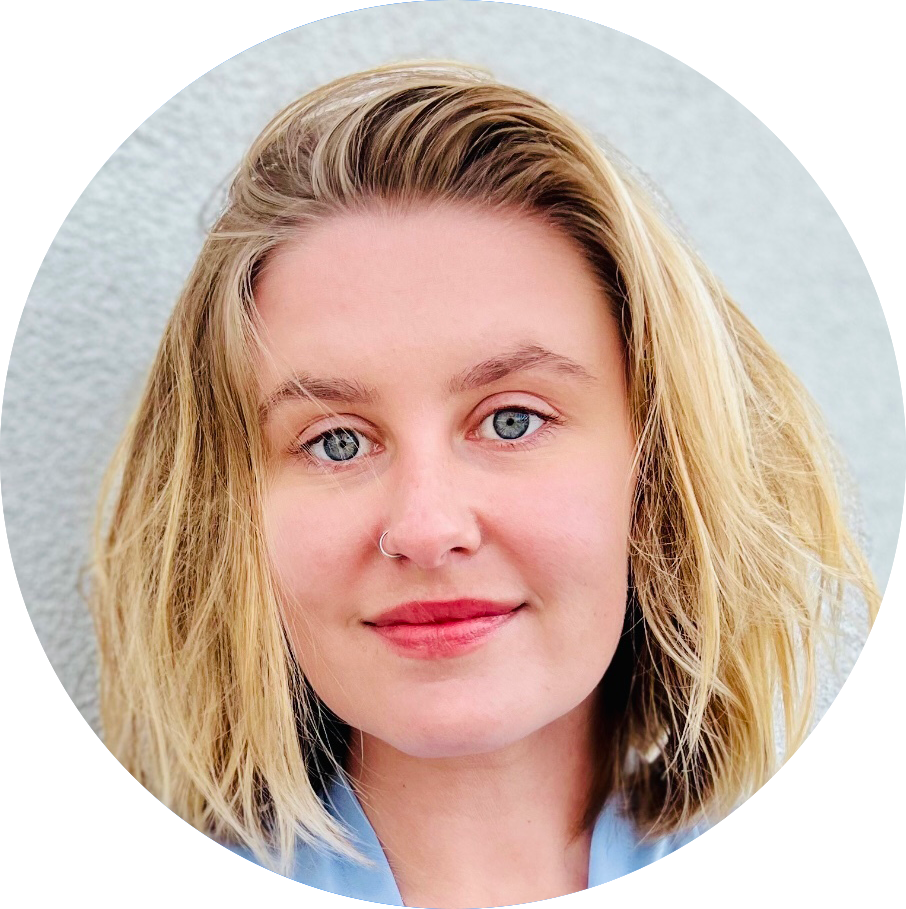
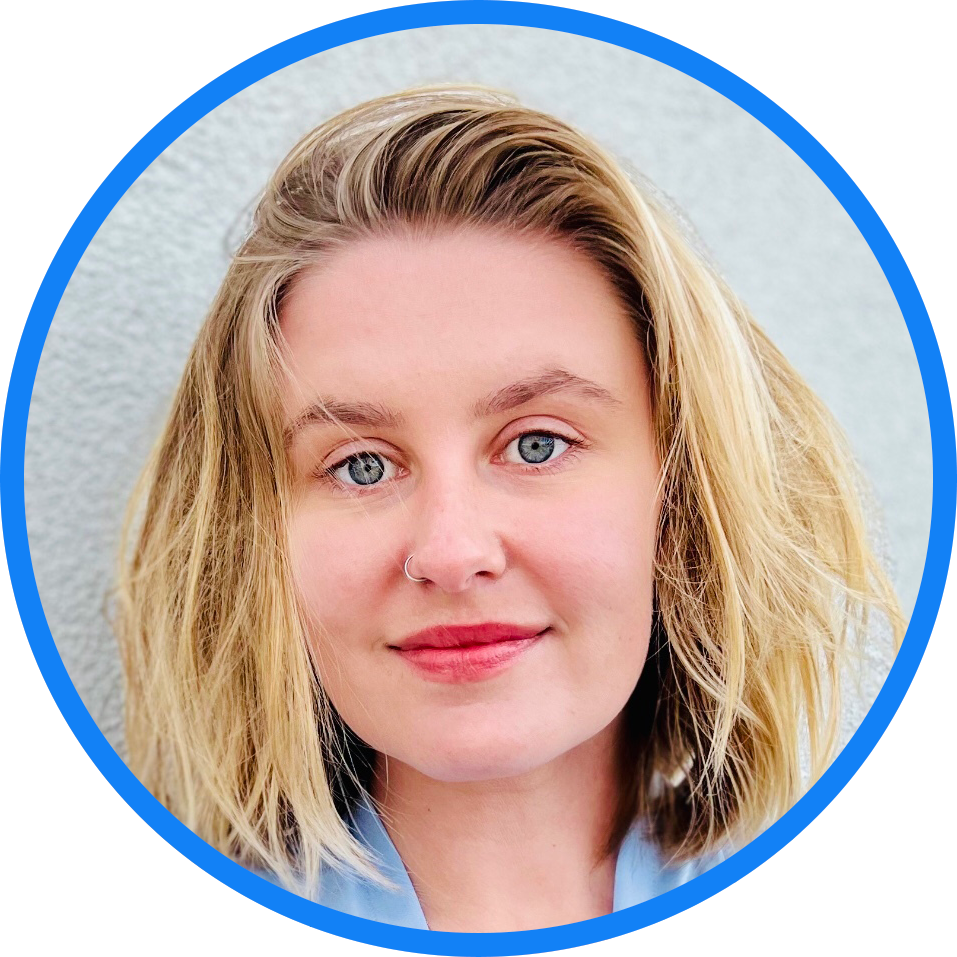
Revert "fixed some responsiveness"

diff --git a/src/pages/ContactPage/ContactPage.jsx b/src/pages/ContactPage/ContactPage.jsx
@@ -13,7 +13,6 @@ const ContactPage = ({ user, setUser }) => {
           <div id='manager-div'>
             <div>
               <img 
-                class='contact-img'
                 src={require('../../utils/images/Yev.png')} 
                 style={{height: '100px'}}>
               </img>
@@ -25,7 +24,6 @@ const ContactPage = ({ user, setUser }) => {
             </div>
             <div>
               <img 
-                class='contact-img'
                 src={require('../../utils/images/sarah.png')} 
                 style={{height: '100px'}}>
               </img>
@@ -42,7 +40,6 @@ const ContactPage = ({ user, setUser }) => {
           <div id='design-div'>
             <div>
               <img 
-                class='contact-img'
                 src={require('../../utils/images/mahita.png')} 
                 style={{height: '100px'}}>
               </img>
@@ -54,7 +51,6 @@ const ContactPage = ({ user, setUser }) => {
             </div>
             <div>
               <img 
-                class='contact-img'
                 src={require('../../utils/images/david.png')} 
                 style={{height: '100px'}}>
               </img>
@@ -66,7 +62,6 @@ const ContactPage = ({ user, setUser }) => {
             </div>
             <div>
               <img 
-                class='contact-img'
                 src={require('../../utils/images/jinah.png')} 
                 style={{height: '100px'}}>
               </img>
@@ -78,7 +73,6 @@ const ContactPage = ({ user, setUser }) => {
             </div>
             <div>
               <img 
-                class='contact-img'
                 src={require('../../utils/images/dona.png')} 
                 style={{height: '100px'}}>
               </img>
@@ -92,7 +86,6 @@ const ContactPage = ({ user, setUser }) => {
             </div>
             <div>
               <img 
-                class='contact-img'
                 src={require('../../utils/images/kay.png')} 
                 style={{height: '100px'}}>
               </img>
@@ -104,7 +97,6 @@ const ContactPage = ({ user, setUser }) => {
             </div>
             <div>
               <img 
-                class='contact-img'
                 src={require('../../utils/images/may.png')} 
                 style={{height: '100px'}}>
               </img>
@@ -116,7 +108,6 @@ const ContactPage = ({ user, setUser }) => {
             </div>
             <div>
               <img 
-                class='contact-img'
                 src={require('../../utils/images/megan.png')} 
                 style={{height: '100px'}}>
                 </img>
@@ -128,7 +119,6 @@ const ContactPage = ({ user, setUser }) => {
             </div>        
             <div>
               <img 
-                class='contact-img'
                 src={require('../../utils/images/luisa.png')} 
                 style={{height: '100px'}}>
               </img>
@@ -140,7 +130,6 @@ const ContactPage = ({ user, setUser }) => {
             </div>
             <div className="farnoosh" >
               <img 
-                class='contact-img'
                 src={require('../../utils/images/farnoosh.png')} 
                 style={{height: '100px'}}>
               </img>
@@ -157,7 +146,6 @@ const ContactPage = ({ user, setUser }) => {
           <div id='engineer-div'>
             <div>
               <img 
-                class='contact-img'
                 src={require('../../utils/images/nisha.png')} 
                 style={{height: '100px'}}>
               </img>
@@ -169,7 +157,6 @@ const ContactPage = ({ user, setUser }) => {
             </div>
             <div>
               <img 
-                class='contact-img'
                 src={require('../../utils/images/roman.png')} 
                 style={{height: '100px'}}>
               </img>
@@ -181,7 +168,6 @@ const ContactPage = ({ user, setUser }) => {
             </div>
             <div>
               <img 
-                class='contact-img'
                 src={require('../../utils/images/michael.png')} 
                 style={{height: '100px'}}>
               </img>
@@ -193,7 +179,6 @@ const ContactPage = ({ user, setUser }) => {
             </div>
             <div> 
               <img 
-                class='contact-img'
                 src={require('../../utils/images/yi.png')} 
                 style={{height: '100px'}}>
               </img>
@@ -205,7 +190,6 @@ const ContactPage = ({ user, setUser }) => {
             </div>
             <div>
               <img 
-                class='contact-img'
                 src={require('../../utils/images/trevor.png')} 
                 style={{height: '100px'}}>
               </img>
@@ -217,7 +201,6 @@ const ContactPage = ({ user, setUser }) => {
             </div>
             <div> 
               <img 
-                class='contact-img'
                 src={require('../../utils/images/james.png')} 
                 style={{height: '100px'}}>
               </img>
@@ -229,7 +212,6 @@ const ContactPage = ({ user, setUser }) => {
             </div>
             <div> 
               <img 
-                class='contact-img'
                 src={require('../../utils/images/kris.png')} 
                 style={{height: '100px'}}>
               </img>
@@ -241,7 +223,6 @@ const ContactPage = ({ user, setUser }) => {
             </div>
             <div> 
               <img 
-                class='contact-img'
                 src={require('../../utils/images/maika.png')} 
                 style={{height: '100px'}}>
               </img>
@@ -258,7 +239,6 @@ const ContactPage = ({ user, setUser }) => {
           <div id='data-div'>
             <div>
               <img 
-                class='contact-img'
                 src={require('../../utils/images/joshua.png')} 
                 style={{height: '100px'}}>
               </img>
@@ -270,7 +250,6 @@ const ContactPage = ({ user, setUser }) => {
             </div>
             <div>
               <img 
-                class='contact-img'
                 src={require('../../utils/images/pic3.png')} 
                 style={{height: '100px'}}>
               </img>
@@ -282,7 +261,6 @@ const ContactPage = ({ user, setUser }) => {
             </div>
             <div>
               <img 
-                class='contact-img'
                 src={require('../../utils/images/pic4.png')} 
                 style={{height: '100px'}}>
               </img>
@@ -294,7 +272,6 @@ const ContactPage = ({ user, setUser }) => {
             </div>
             <div>
               <img 
-                class='contact-img'
                 src={require('../../utils/images/morgan.png')} 
                 style={{height: '100px'}}>
               </img>

diff --git a/src/pages/ContactPage/ContactPage.css b/src/pages/ContactPage/ContactPage.css
@@ -1,15 +1,20 @@
 .contact-main-div {
-    display: block;
+    /* display: grid; */
     justify-content: space-around;
-    /* height: 150vh; */
-    /* width: 100vw */
+    grid-template-rows: 1fr 1fr 1fr 1fr;
+    grid-template-columns: 1fr 1fr 1fr 1fr 1fr 1fr;
+    height: 150vh;
+    width: 100vw
+}
+
+.contact-main-div:first-child {
+
 }
 
 #manager-div {
     margin: 0px 50px;
-    display: block;
-    padding-top: 30px;
-    padding-bottom: 30px;
+    display: grid;
+    grid-template-columns: 1fr 1fr
 }
 
 #contact-label{
@@ -26,16 +31,8 @@
     border: rgb(0, 105, 252) 8px;
 }
 
-@media (max-width: 500px) {
-    #design-div {
-        justify-content: space-around;
-        display: grid;
-        grid-template-columns: 1fr 1fr;
-    }
-}
-
-.contact-img {
-    border: 3px solid #1469bd;
+#design-div > div > img {
+    border: rgb(0, 105, 252) 8px;
     border-radius: 100%;
 }
 
@@ -47,12 +44,8 @@
     padding-bottom: 30px;
 }
 
-@media (max-width: 500px) {
-    #engineer-div {
-        justify-content: space-around;
-        display: grid;
-        grid-template-columns: 1fr 1fr;
-    }
+#engineer-div > div > img {
+    border-radius: 100%;
 }
 
 #data-div{
@@ -63,14 +56,10 @@
     padding-bottom: 30px;
 }
 
-@media (max-width: 500px) {
-    #data-div {
-        justify-content: space-around;
-        display: grid;
-        grid-template-columns: 1fr 1fr;
-    }
+#manager-div{
+    padding-top: 30px;
+    padding-bottom: 30px;
 }
-
 
 
 

diff --git a/src/components/Footer/NewFooter.jsx b/src/components/Footer/NewFooter.jsx
@@ -15,7 +15,7 @@ const NewFooter = () => {
         <Link className='resourcesBtn' style={{ marginRight: "35px" }} to="/contact-us">Contact</Link>
       </div>
 
-      <div className='links'>
+      <div>
         <Link to=""><FontAwesomeIcon style={{width: "25px", marginRight: "35px"}} icon={faLinkedinIn} size="2x" className="highlight" /></Link>
         <Link to=""><FontAwesomeIcon style={{width: "25px", marginRight: "35px"}} icon={faTwitter} size="2x" className="highlight" /></Link>
         <Link to=""><FontAwesomeIcon style={{width: "25px", marginRight: "35px"}} icon={faFacebook} size="2x" className="highlight" /></Link>

diff --git a/src/index.css b/src/index.css
@@ -1,14 +1,7 @@
 @import url('https://fonts.googleapis.com/css2?family=Public+Sans:ital,wght@0,400;0,500;0,600;0,700;0,800;1,300;1,400;1,500;1,600&display=swap');
 
-html {
-  height: 100%;
-  width: 100%;
-}
-
 body {
   margin: 0;
-  height: 100%;
-  width: 100%;
   font-family: 'Public Sans', sans-serif;
   -webkit-font-smoothing: antialiased;
   -moz-osx-font-smoothing: grayscale;

diff --git a/src/components/Footer/NewFooter.styles.css b/src/components/Footer/NewFooter.styles.css
@@ -3,17 +3,7 @@
   justify-content: space-between;
   align-items: center;
   padding: 10px 20px;
-  /* height: 90px; */
-  height: 100%;
-  width: 100%;
+  height: 90px;
+  /* width: 100%; */
   background-color: #1960D3;
-}
-
-
-@media (max-width: 500px ) {
-  .links {
-    display: grid;
-    grid-template-columns: 1fr 1fr;
-    grid-template-rows: 1fr 1fr;
-  }
 }

diff --git a/public/index.html b/public/index.html
@@ -10,7 +10,6 @@
       content="Web site created using create-react-app"
     />
     <!-- CSS only -->
-    <link rel="stylesheet" href="App.css"/>
     <link rel="apple-touch-icon" href="%PUBLIC_URL%/logo192.png" />
     <!--
       manifest.json provides metadata used when your web app is installed on a

diff --git a/src/components/Navbar/NewNavbar.styles.css b/src/components/Navbar/NewNavbar.styles.css
@@ -4,7 +4,7 @@
   align-items: center;
   padding: 10px 20px;
   height: 90px;
-  width: 100%;
+  /* width: 100%; */
   background-color: #1960D3;
   z-index: 1;
 }

diff --git a/src/App.css b/src/App.css
@@ -1,9 +1,3 @@
-html, body {
-  width: 100%;
-  height: 100%;
-  justify-self: center;
-}
-
 body {
   overflow-x: hidden;
 }
